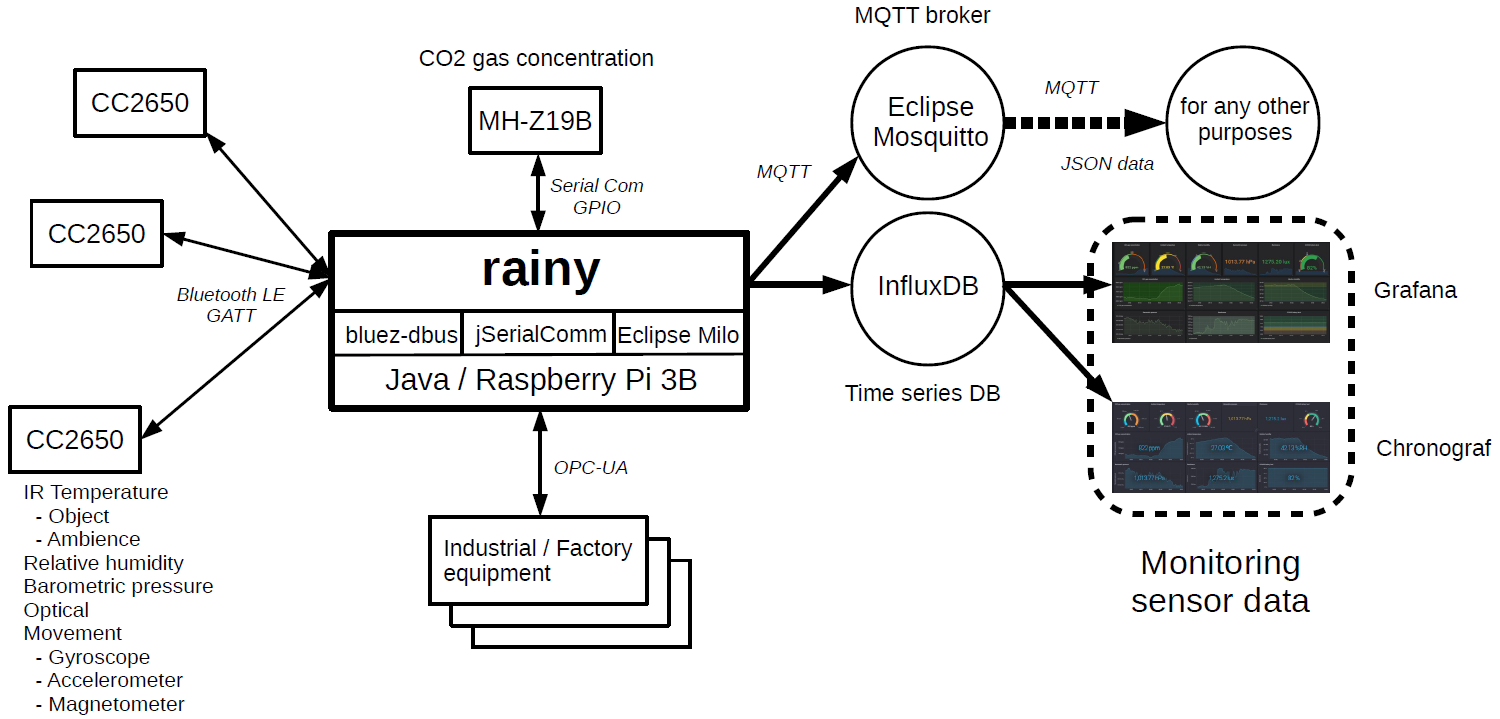
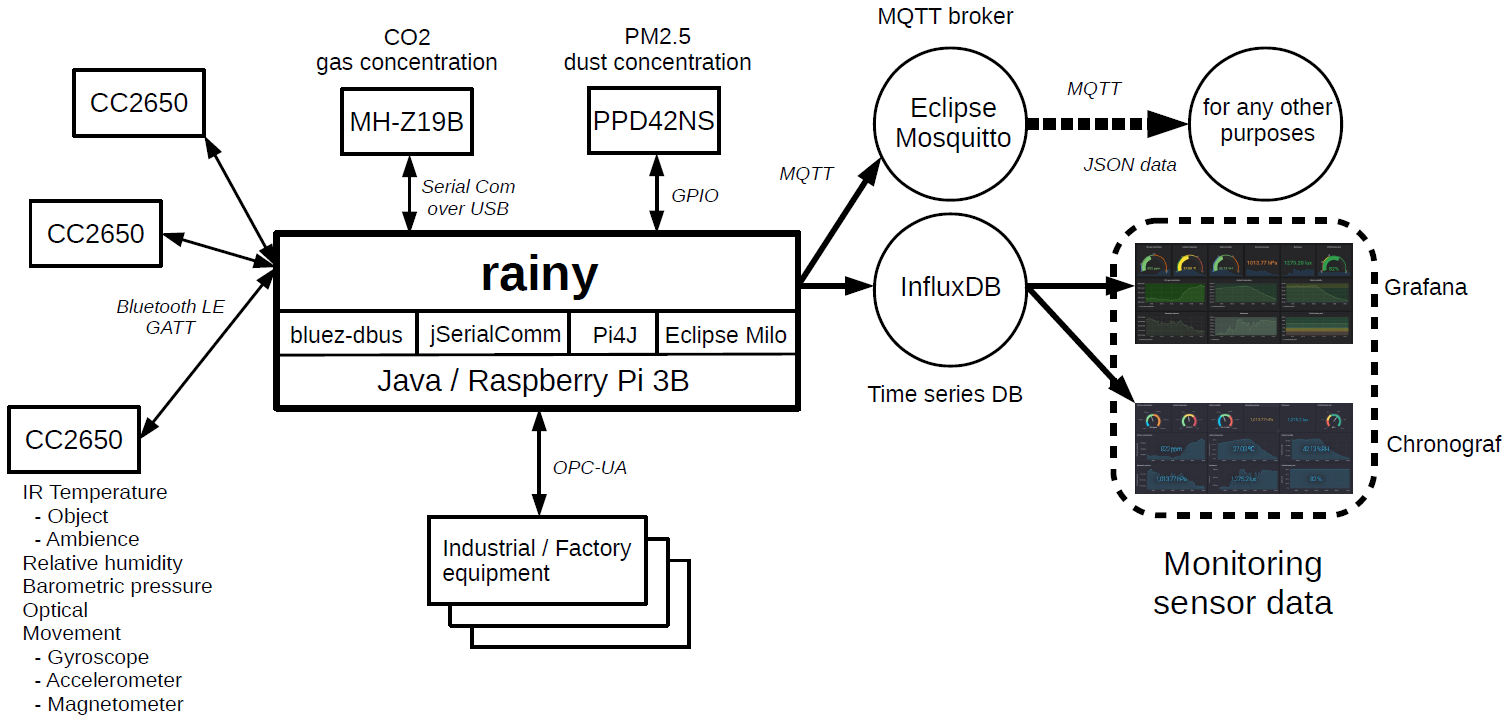
added support for ppd42ns-driver.

diff --git a/src/io/github/s5uishida/iot/rainy/device/ppd42ns/PPD42NS.java b/src/io/github/s5uishida/iot/rainy/device/ppd42ns/PPD42NS.java
@@ -1,0 +1,148 @@
+package io.github.s5uishida.iot.rainy.device.ppd42ns;
+
+import java.io.IOException;
+import java.text.SimpleDateFormat;
+import java.util.ArrayList;
+import java.util.Date;
+import java.util.List;
+
+import org.slf4j.Logger;
+import org.slf4j.LoggerFactory;
+
+import io.github.s5uishida.iot.device.ppd42ns.driver.PPD42NSDriver;
+import io.github.s5uishida.iot.device.ppd42ns.driver.PPD42NSObservationData;
+import io.github.s5uishida.iot.rainy.device.IDevice;
+import io.github.s5uishida.iot.rainy.device.ppd42ns.data.PPD42NSData;
+import io.github.s5uishida.iot.rainy.device.ppd42ns.data.Pcs;
+import io.github.s5uishida.iot.rainy.device.ppd42ns.data.Ugm3;
+import io.github.s5uishida.iot.rainy.sender.IDataSender;
+import it.sauronsoftware.cron4j.Scheduler;
+
+/*
+ * @author s5uishida
+ *
+ */
+public class PPD42NS implements IDevice {
+	private static final Logger LOG = LoggerFactory.getLogger(PPD42NS.class);
+	private static final PPD42NSConfig config = PPD42NSConfig.getInstance();
+
+	private final String clientID;
+	private final PPD42NSDriver ppd42ns;
+	private final List<IDataSender> senders = new ArrayList<IDataSender>();
+	private final String crontab;
+
+	private Scheduler ppd42nsReadScheduler;
+
+	public PPD42NS(String clientID) throws IOException {
+		this.clientID = clientID;
+
+		ppd42ns = PPD42NSDriver.getInstance();
+		ppd42ns.open();
+
+		if (config.getInfluxDB()) {
+			senders.add(new PPD42NSInfluxDBSender());
+			LOG.info("registered sender - {}", PPD42NSInfluxDBSender.class.getSimpleName());
+		}
+		if (config.getMqtt()) {
+			senders.add(new PPD42NSMqttSender());
+			LOG.info("registered sender - {}", PPD42NSMqttSender.class.getSimpleName());
+		}
+
+		ppd42nsReadScheduler = new Scheduler();
+		crontab = config.getReadCrontab();
+		ppd42nsReadScheduler.schedule(crontab, new PPD42NSReadScheduledTask(ppd42ns, senders, this.clientID));
+		ppd42nsReadScheduler.setDaemon(true);
+		LOG.info("crontab of direct reading - {}", crontab);
+	}
+
+	public String getCrontab() {
+		return crontab;
+	}
+
+	public void start() {
+		for (IDataSender sender : senders) {
+			try {
+				sender.connect();
+			} catch (IOException e) {
+				LOG.warn("caught - {}", e.toString());
+			}
+		}
+		ppd42nsReadScheduler.start();
+		LOG.info("sensing PPD42NS started.");
+	}
+
+	public void stop() {
+		ppd42nsReadScheduler.stop();
+		for (IDataSender sender : senders) {
+			try {
+				sender.disconnect();
+			} catch (IOException e) {
+				LOG.warn("caught - {}", e.toString());
+			}
+		}
+		LOG.info("sensing PPD42NS stopped.");
+	}
+
+	public static void main(String[] args) throws IOException {
+		PPD42NS ppd42ns = new PPD42NS("client0");
+		ppd42ns.start();
+
+//		ppd42ns.stop();
+	}
+}
+
+class PPD42NSReadScheduledTask implements Runnable {
+	private static final Logger LOG = LoggerFactory.getLogger(PPD42NSReadScheduledTask.class);
+
+	private static final String dateFormat = "yyyy-MM-dd HH:mm:ss.SSS";
+	private static final SimpleDateFormat sdf = new SimpleDateFormat(dateFormat);
+
+	private final PPD42NSDriver ppd42ns;
+	private final List<IDataSender> senders;
+	private final String clientID;
+
+	public PPD42NSReadScheduledTask(PPD42NSDriver ppd42ns, List<IDataSender> senders, String clientID) {
+		this.ppd42ns = ppd42ns;
+		this.senders = senders;
+		this.clientID = clientID;
+	}
+
+	@Override
+	public void run() {
+		Date date = new Date();
+		String dateString = sdf.format(date);
+
+		String logPrefix = "[" + ppd42ns.getName() + "] ";
+
+		PPD42NSData ppd42nsData = new PPD42NSData();
+
+		ppd42nsData.clientID = clientID;
+		ppd42nsData.deviceID = ppd42ns.getName();
+		ppd42nsData.samplingDate = dateString;
+		ppd42nsData.samplingTimeMillis = date.getTime();
+
+		PPD42NSObservationData data = ppd42ns.read();
+		if (data == null) {
+			LOG.info(logPrefix + "read timeout.");
+			return;
+		}
+
+		ppd42nsData.pcs = new Pcs();
+		ppd42nsData.pcs.value = data.getPcs();
+
+		ppd42nsData.ugm3 = new Ugm3();
+		ppd42nsData.ugm3.value = data.getUgm3();
+
+		LOG.debug(logPrefix + "pcs:{} ugm3:{}", data.getPcs(), data.getUgm3());
+
+		for (IDataSender sender : senders) {
+			try {
+				if (sender.isConnected()) {
+					sender.send(ppd42nsData);
+				}
+			} catch (IOException e) {
+				LOG.warn(logPrefix + "{} caught - {}", sender.getClass().getSimpleName(), e.toString());
+			}
+		}
+	}
+}

diff --git a/src/io/github/s5uishida/iot/rainy/device/ppd42ns/PPD42NSInfluxDBSender.java b/src/io/github/s5uishida/iot/rainy/device/ppd42ns/PPD42NSInfluxDBSender.java
@@ -1,0 +1,49 @@
+package io.github.s5uishida.iot.rainy.device.ppd42ns;
+
+import java.io.IOException;
+
+import org.influxdb.dto.BatchPoints;
+import org.influxdb.dto.Point.Builder;
+
+import io.github.s5uishida.iot.rainy.device.ppd42ns.data.PPD42NSData;
+import io.github.s5uishida.iot.rainy.sender.IDataSender;
+import io.github.s5uishida.iot.rainy.sender.influxdb.AbstractInfluxDBSender;
+
+/*
+ * @author s5uishida
+ *
+ */
+public class PPD42NSInfluxDBSender extends AbstractInfluxDBSender implements IDataSender {
+	@Override
+	public void send(Object object) throws IOException {
+		if (!(object instanceof PPD42NSData)) {
+			return;
+		}
+
+		PPD42NSData ppd42ns = (PPD42NSData)object;
+		String dbName = formatDBName(ppd42ns.clientID + "_" + ppd42ns.deviceID);
+
+		BatchPoints batchPoints = BatchPoints.database(dbName).tag("async", "true").retentionPolicy(retentionPolicy).build();
+
+		Builder builder = setCommonFields("ppd42ns", ppd42ns);
+
+		if (ppd42ns.pcs != null) {
+			String field = "pcs";
+			builder.addField(field + "_value", ppd42ns.pcs.value);
+			if (!dataOnly) {
+				builder.addField(field + "_unit", ppd42ns.pcs.unit);
+			}
+		}
+		if (ppd42ns.ugm3 != null) {
+			String field = "ugm3";
+			builder.addField(field + "_value", ppd42ns.ugm3.value);
+			if (!dataOnly) {
+				builder.addField(field + "_unit", ppd42ns.ugm3.unit);
+			}
+		}
+
+		batchPoints.point(builder.build());
+
+		execute(dbName, batchPoints);
+	}
+}

diff --git a/src/io/github/s5uishida/iot/rainy/device/ppd42ns/PPD42NSConfig.java b/src/io/github/s5uishida/iot/rainy/device/ppd42ns/PPD42NSConfig.java
@@ -1,0 +1,44 @@
+package io.github.s5uishida.iot.rainy.device.ppd42ns;
+
+import io.github.s5uishida.iot.rainy.util.AbstractConfig;
+import io.github.s5uishida.iot.rainy.util.ConfigParams;
+
+/*
+ * @author s5uishida
+ *
+ */
+public class PPD42NSConfig extends AbstractConfig {
+	public static final String INFLUXDB_KEY								= "influxDB";
+	public static final String MQTT_KEY									= "mqtt";
+	public static final String PRETTY_PRINTING_KEY						= "prettyPrinting";
+	public static final String READ_CRONTAB_KEY							= "readCrontab";
+
+	private static PPD42NSConfig config;
+
+	private PPD42NSConfig(String dirParam, String fileName) {
+		super(dirParam, fileName);
+	}
+
+	public static PPD42NSConfig getInstance() {
+		if (config == null) {
+			config = new PPD42NSConfig(ConfigParams.CONFIG_DIR_PARAM, ConfigParams.PPD42NS_CONFIG_FILE);
+		}
+		return config;
+	}
+
+	public boolean getInfluxDB() {
+		return getConfig(INFLUXDB_KEY, false);
+	}
+
+	public boolean getMqtt() {
+		return getConfig(MQTT_KEY, false);
+	}
+
+	public boolean getPrettyPrinting() {
+		return getConfig(PRETTY_PRINTING_KEY, false);
+	}
+
+	public String getReadCrontab() {
+		return getConfig(READ_CRONTAB_KEY, "* * * * *");
+	}
+}

diff --git a/src/io/github/s5uishida/iot/rainy/device/ppd42ns/PPD42NSMqttSender.java b/src/io/github/s5uishida/iot/rainy/device/ppd42ns/PPD42NSMqttSender.java
@@ -1,0 +1,39 @@
+package io.github.s5uishida.iot.rainy.device.ppd42ns;
+
+import java.io.IOException;
+
+import io.github.s5uishida.iot.rainy.device.ppd42ns.data.PPD42NSData;
+import io.github.s5uishida.iot.rainy.sender.IDataSender;
+import io.github.s5uishida.iot.rainy.sender.mqtt.AbstractMqttSender;
+
+/*
+ * @author s5uishida
+ *
+ */
+public class PPD42NSMqttSender extends AbstractMqttSender implements IDataSender {
+	private static final PPD42NSConfig config = PPD42NSConfig.getInstance();
+
+	private final boolean prettyPrinting;
+
+	public PPD42NSMqttSender() throws IOException {
+		super();
+		prettyPrinting = config.getPrettyPrinting();
+	}
+
+	@Override
+	public void send(Object object) throws IOException {
+		if (!(object instanceof PPD42NSData)) {
+			return;
+		}
+
+		PPD42NSData ppd42ns = (PPD42NSData)object;
+		String subTopic = formatSubTopic(ppd42ns.clientID + "_" + ppd42ns.deviceID);
+
+		String data = mapper.writeValueAsString(ppd42ns);
+		if (LOG.isDebugEnabled() && prettyPrinting) {
+			LOG.debug("PPD42NS JSON -\n{}", prettyMapper.writeValueAsString(ppd42ns));
+		}
+
+		execute(subTopic, data);
+	}
+}

diff --git a/src/io/github/s5uishida/iot/rainy/util/ConfigParams.java b/src/io/github/s5uishida/iot/rainy/util/ConfigParams.java
@@ -6,7 +6,7 @@ package io.github.s5uishida.iot.rainy.util;
  */
 public class ConfigParams {
 	public static final String NAME						= "rainy - a tiny tool for iot data collection and monitoring";
-	public static final String VERSION					= "0.1.7";
+	public static final String VERSION					= "0.1.8";
 
 	public static final String CONFIG_DIR_PARAM			= "config.dir";
 	public static final String CONFIG_FILE				= "rainy.properties";
@@ -15,6 +15,7 @@ public class ConfigParams {
 	public static final String MQTTS_CONFIG_FILE		= "mqtts.properties";
 	public static final String CC2650_CONFIG_FILE		= "cc2650.properties";
 	public static final String MHZ19B_CONFIG_FILE		= "mhz19b.properties";
+	public static final String PPD42NS_CONFIG_FILE		= "ppd42ns.properties";
 	public static final String OPCUA_CONFIG_FILE		= "opcua.properties";
 
 	public static String getName() {

diff --git a/src/io/github/s5uishida/iot/rainy/util/Config.java b/src/io/github/s5uishida/iot/rainy/util/Config.java
@@ -8,6 +8,7 @@ public class Config extends AbstractConfig {
 	public static final String CLIENT_ID_KEY		= "clientID";
 	public static final String CC2650_KEY		= "cc2650";
 	public static final String MHZ19B_KEY		= "mhz19b";
+	public static final String PPD42NS_KEY		= "ppd42ns";
 	public static final String OPCUA_KEY			= "opcua";
 
 	private static Config config;
@@ -33,6 +34,10 @@ public class Config extends AbstractConfig {
 
 	public boolean getMHZ19B() {
 		return getConfig(MHZ19B_KEY, false);
+	}
+
+	public boolean getPPD42NS() {
+		return getConfig(PPD42NS_KEY, false);
 	}
 
 	public boolean getOPCUA() {

diff --git a/src/io/github/s5uishida/iot/rainy/device/ppd42ns/data/PPD42NSData.java b/src/io/github/s5uishida/iot/rainy/device/ppd42ns/data/PPD42NSData.java
@@ -1,0 +1,12 @@
+package io.github.s5uishida.iot.rainy.device.ppd42ns.data;
+
+import io.github.s5uishida.iot.rainy.data.CommonData;
+
+/*
+ * @author s5uishida
+ *
+ */
+public class PPD42NSData extends CommonData {
+	public Pcs pcs;
+	public Ugm3 ugm3;
+}

diff --git a/src/io/github/s5uishida/iot/rainy/device/ppd42ns/data/Pcs.java b/src/io/github/s5uishida/iot/rainy/device/ppd42ns/data/Pcs.java
@@ -1,0 +1,10 @@
+package io.github.s5uishida.iot.rainy.device.ppd42ns.data;
+
+/*
+ * @author s5uishida
+ *
+ */
+public class Pcs {
+	public float value;
+	public final String unit = "pcs/0.01cf";
+}

diff --git a/src/io/github/s5uishida/iot/rainy/device/ppd42ns/data/Ugm3.java b/src/io/github/s5uishida/iot/rainy/device/ppd42ns/data/Ugm3.java
@@ -1,0 +1,10 @@
+package io.github.s5uishida.iot.rainy.device.ppd42ns.data;
+
+/*
+ * @author s5uishida
+ *
+ */
+public class Ugm3 {
+	public float value;
+	public final String unit = "ug/m^3";
+}
